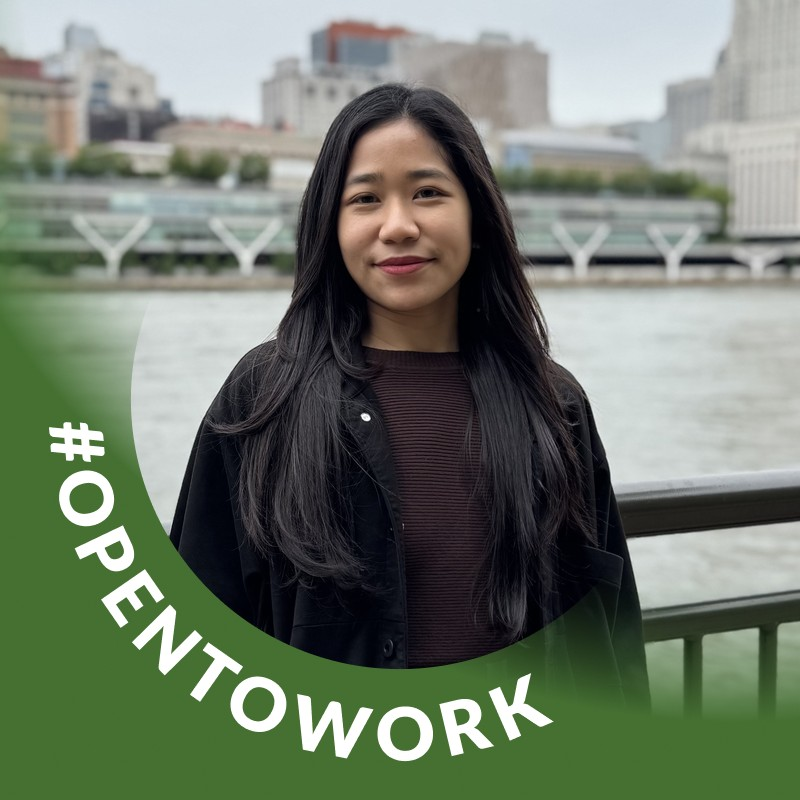
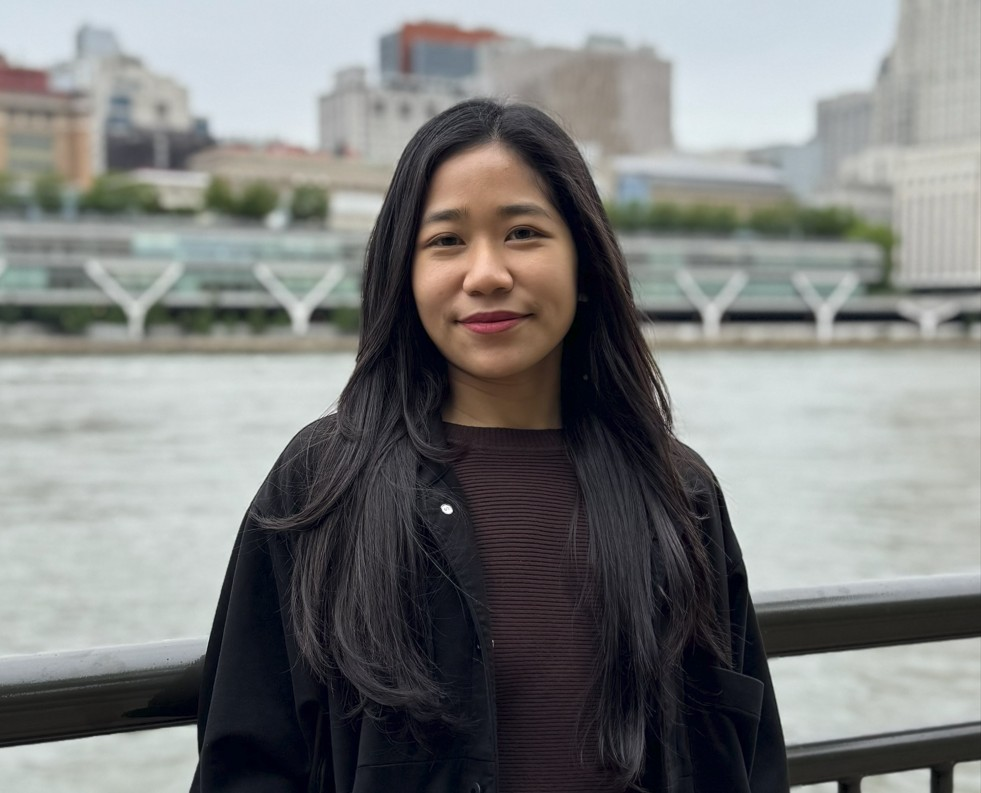
Updated a headshot jpg, some text and added hyperlinks

diff --git a/docs/productivity-without-burnout.html b/docs/productivity-without-burnout.html
@@ -153,7 +153,7 @@ A conversation about working smart,<br>resting well, and finishing strong.
 <div class="columns">
 <div class="column" style="width:10%;">
 <div style="width:220px; height:220px; border-radius:50%; overflow:hidden; border:4px solid #003087; margin:0 auto;">
-<img src="raul-headshot.jpg" style="width:220px; height:250px; max-width:none; max-height:none; margin-top:-20px;">
+<img src="raul-headshot.jpg" style="width:230px; height:250px; max-width:none; max-height:none; margin-top:-20px;">
 </div>
 <div style="text-align: center; margin-top: 0.5rem;">
 <p><strong>Raúl J. Solá Navarro</strong></p>
@@ -164,12 +164,11 @@ A conversation about working smart,<br>resting well, and finishing strong.
 <p><strong>Tell us about yourself!</strong></p>
 <ul>
 <li>Master in Science in Business Analytics with a concentration in Data Analytics.</li>
-<li>Former Texas Instruments Finance &amp; Operations Leader.</li>
-<li>To me burnout is a feeling of overwhelment which causes lost of motivation.</li>
-<li>LinkedIn: <a href="#/">https://www.linkedin.com/in/raul-sola-navarro/</a></li>
+<li>Former <a href="https://www.ti.com/about-ti/company/overview.html">Texas Instruments</a> Finance &amp; Operations Leader and Founder and Owner at <a href="https://www.linkedin.com/company/iron-sportz/">IronSportz</a></li>
+<li>To me “burnout” is a feeling of overwhelment which causes lost of motivation. I want to help other students to cope with this feeling and share the strategies that helped me to overcome it.</li>
 </ul>
 <div style="background: #e8f0fe; border-left: 4px solid #003087; padding: 0.8rem; margin-top: 1rem; border-radius: 4px; font-style: italic;">
-<p>Tip - When feeling stuck, try completing the easiest task to build some momentum.</p>
+<p>“Tip: When feeling stuck, try completing the easiest task to build some momentum.”</p>
 </div>
 </div></div>
 <aside class="notes">
@@ -191,8 +190,8 @@ A conversation about working smart,<br>resting well, and finishing strong.
 <div class="columns">
 <div class="column" style="width:10%;">
 <div style="width:220px; height:220px; border-radius:50%; overflow:hidden; border:4px solid #003087; margin:0 auto;">
-<img src="may-headshot.jpg" style="width:220px; height:250px;
-max-width:none; max-height:none; margin-top:-10px;">
+<img src="may-headshot.jpg" style="width:230px; height:240px;
+max-width:none; max-height:none; margin-top: -10px;">
 </div>
 <div style="text-align: center; margin-top: 0.5rem;">
 <p><strong>May Phyo Paing</strong></p>
@@ -202,13 +201,12 @@ max-width:none; max-height:none; margin-top:-10px;">
 </div><div class="column" style="width:70%;">
 <p><strong>Tell us about yourself!</strong></p>
 <ul>
-<li>Program and concentration</li>
-<li>Background and prior work experience</li>
-<li>Why this topic matters to you personally</li>
-<li>LinkedIn: <a href="#/">https://www.linkedin.com/in/may-phyo-2829-paing/</a></li>
+<li>Master of Science in Finance</li>
+<li>Former Senior Analyst at <a href="https://www.smfg.co.jp/english/">SMBC</a>; current Graduate TA at <a href="https://www.baruch.cuny.edu/">Baruch College</a> and Finance Intern at <a href="http://www.dakdan.com">Dakdan</a></li>
+<li>I have been there! I have experienced the stress and overwhelm of grad school and recruiting, and I want to share the strategies that helped me thrive instead of just survive.</li>
 </ul>
 <div style="background: #e8f0fe; border-left: 4px solid #003087; padding: 0.8rem; margin-top: 1rem; border-radius: 4px; font-style: italic;">
-<p>Tip – Share something unexpected or funny. It makes you memorable!</p>
+<p>“My path to Zicklin demanded resilience I didn’t know I had. As a first-generation student coming from a country facing instability, the transition was overwhelming at first. A new academic system, a new culture, a new pace of life. Over time, I found my rhythm, built meaningful connections, and began to see how this experience was shaping my growth. Somewhere along the way, I realized I was no longer just catching up. I was growing, adapting, and thriving.” - Myself, 3 months ago</p>
 </div>
 </div></div>
 <aside class="notes">
